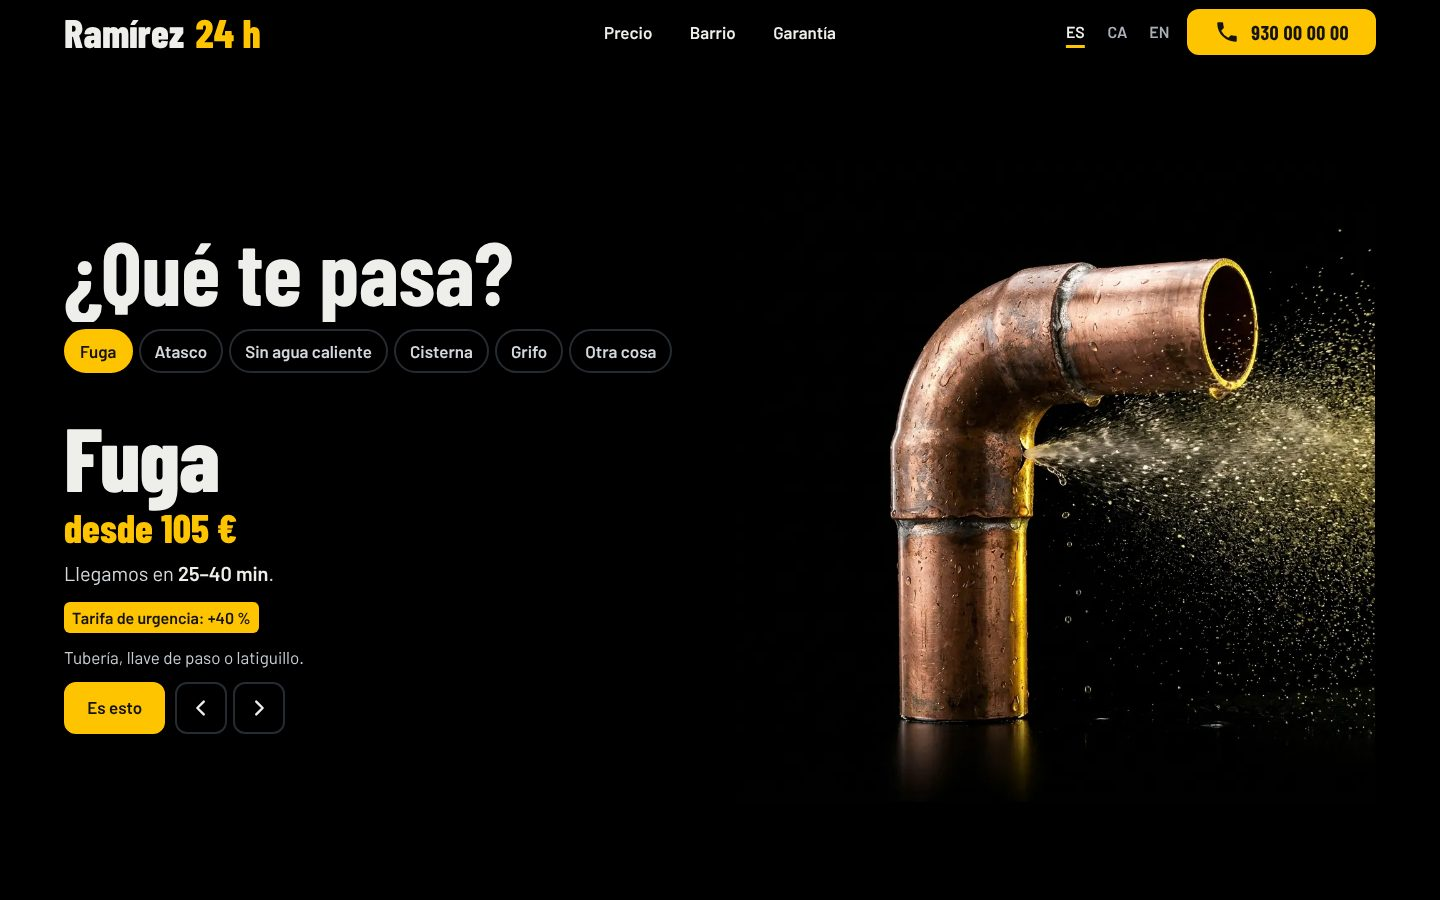
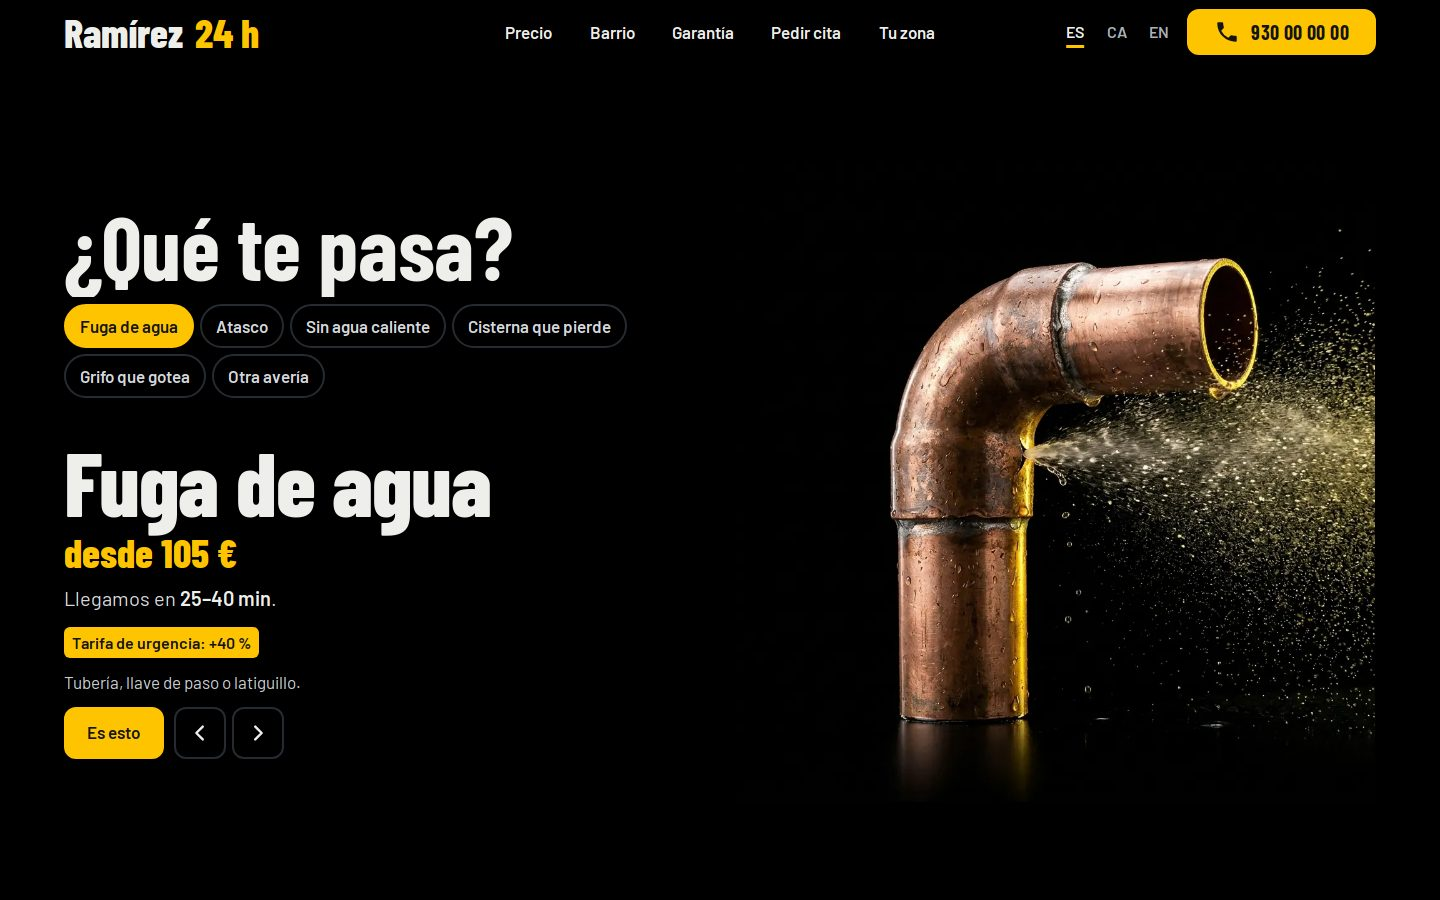
Ramírez: capturas del portfolio con la entrada nueva y el texto de la foto de Jordi
Las ocho capturas de frontend/public/projects/demos (la de compartir, la portada, el móvil, la
página larga y las cuatro pantallas) salen ahora con el técnico nuevo y el uniforme limpio;
vienen de la rama demo-shots (commit bcda37f). En prueba.html, el texto de la foto de Jordi
dice lo que se ve en la nueva.

Claude-Session: https://claude.ai/code/session_01DChTJnCiCW4hs7btUNApc9

diff --git a/frontend/public/demos/ramirez-24h/prueba.html b/frontend/public/demos/ramirez-24h/prueba.html
@@ -112,7 +112,7 @@ h1{font:800 clamp(3rem,13.4vw,8rem)/.88 var(--fd)}
   <div>
    <h2 id="papT">Al terminar, los papeles salen solos.</h2>
    <p>Presupuesto firmado con el dedo, parte de trabajo y garantía, con los datos que ya estaban escritos. El IVA del 10 o del 21 % lo calcula la app.</p>
-   <figure class="jor"><img src="assets/img/jordi.webp" alt="Jordi Ramírez, el fundador, en la puerta de un portal" width="640" height="857" loading="lazy"><figcaption>Jordi Ramírez firma un año de garantía en cada trabajo.</figcaption></figure>
+   <figure class="jor"><img src="assets/img/jordi.webp" alt="Jordi Ramírez, el fundador, de noche en una calle de Barcelona" width="640" height="857" loading="lazy"><figcaption>Jordi Ramírez firma un año de garantía en cada trabajo.</figcaption></figure>
   </div>
   <div class="hojap" data-ui><iframe src="app.html?fijo&amp;solo#/papel/R-0139/parte" title="Un parte de trabajo de ejemplo" loading="lazy"></iframe></div>
  </section>
